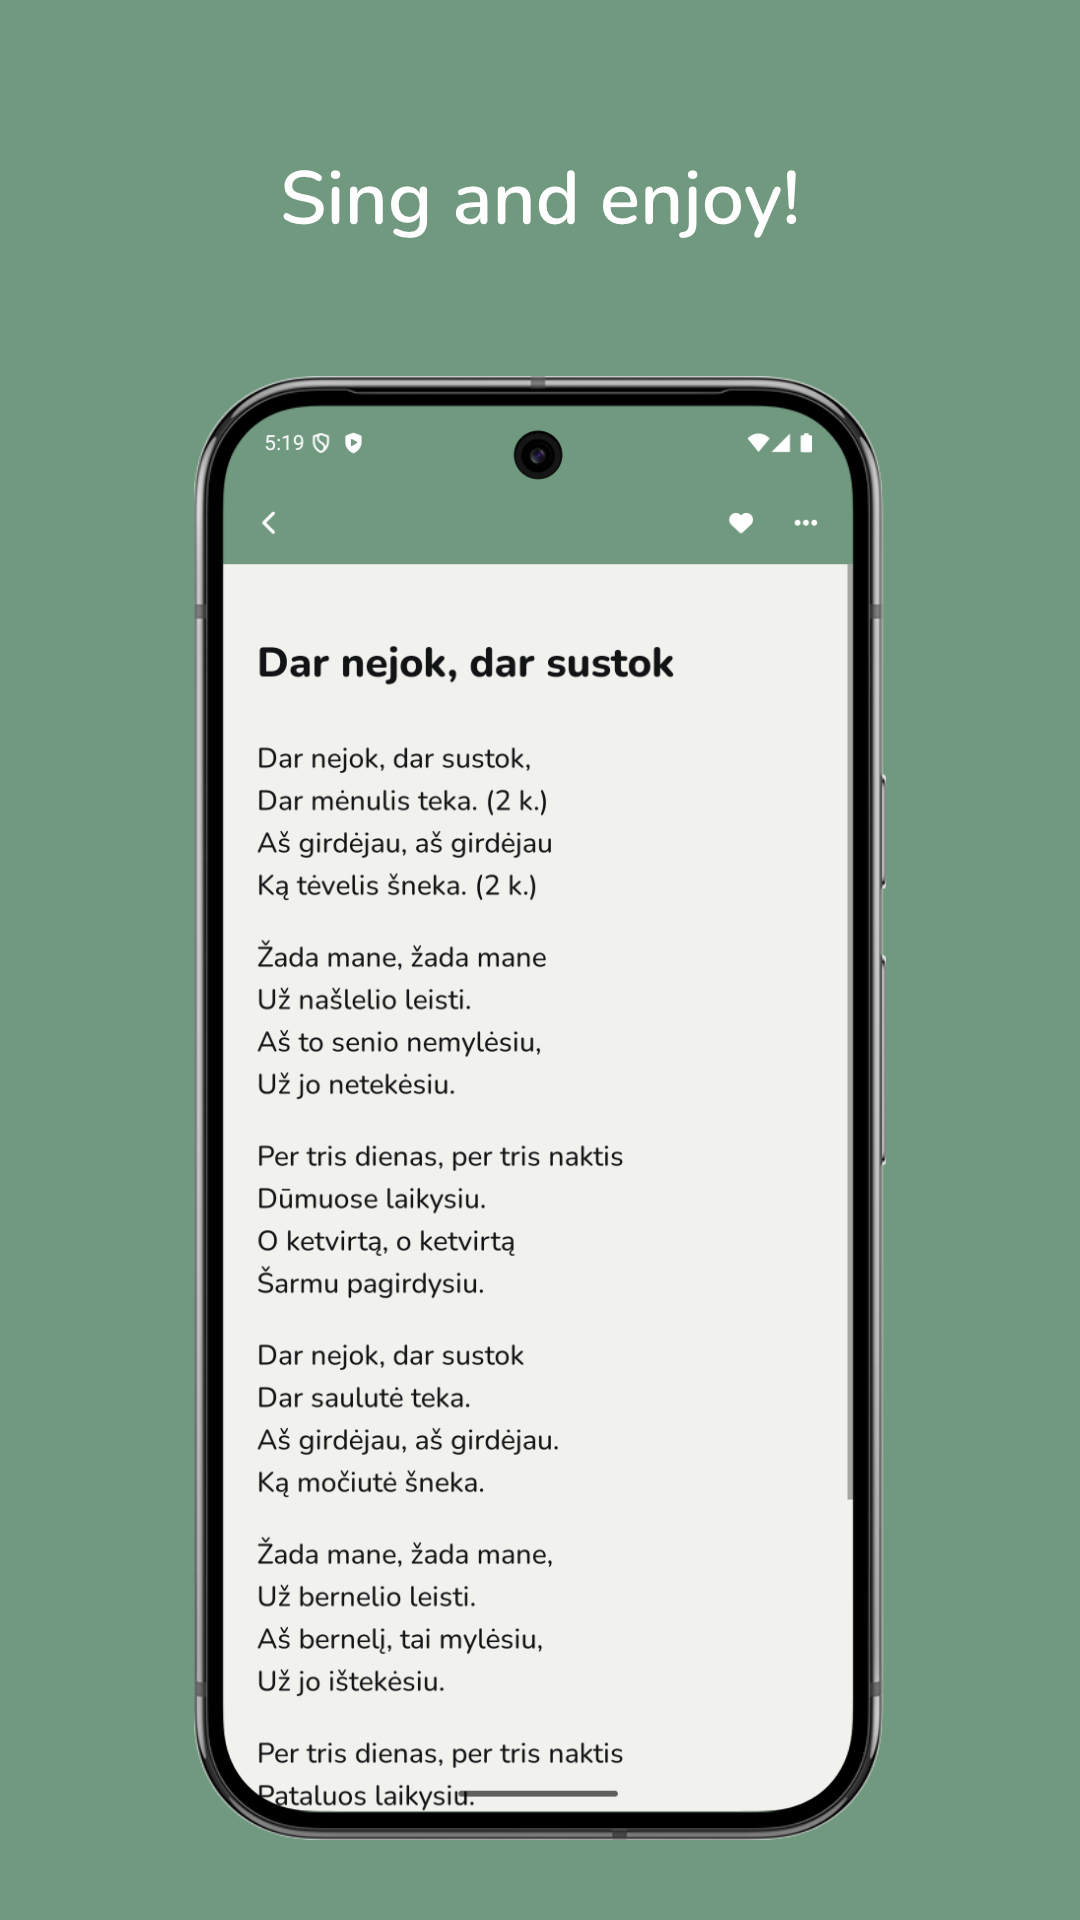
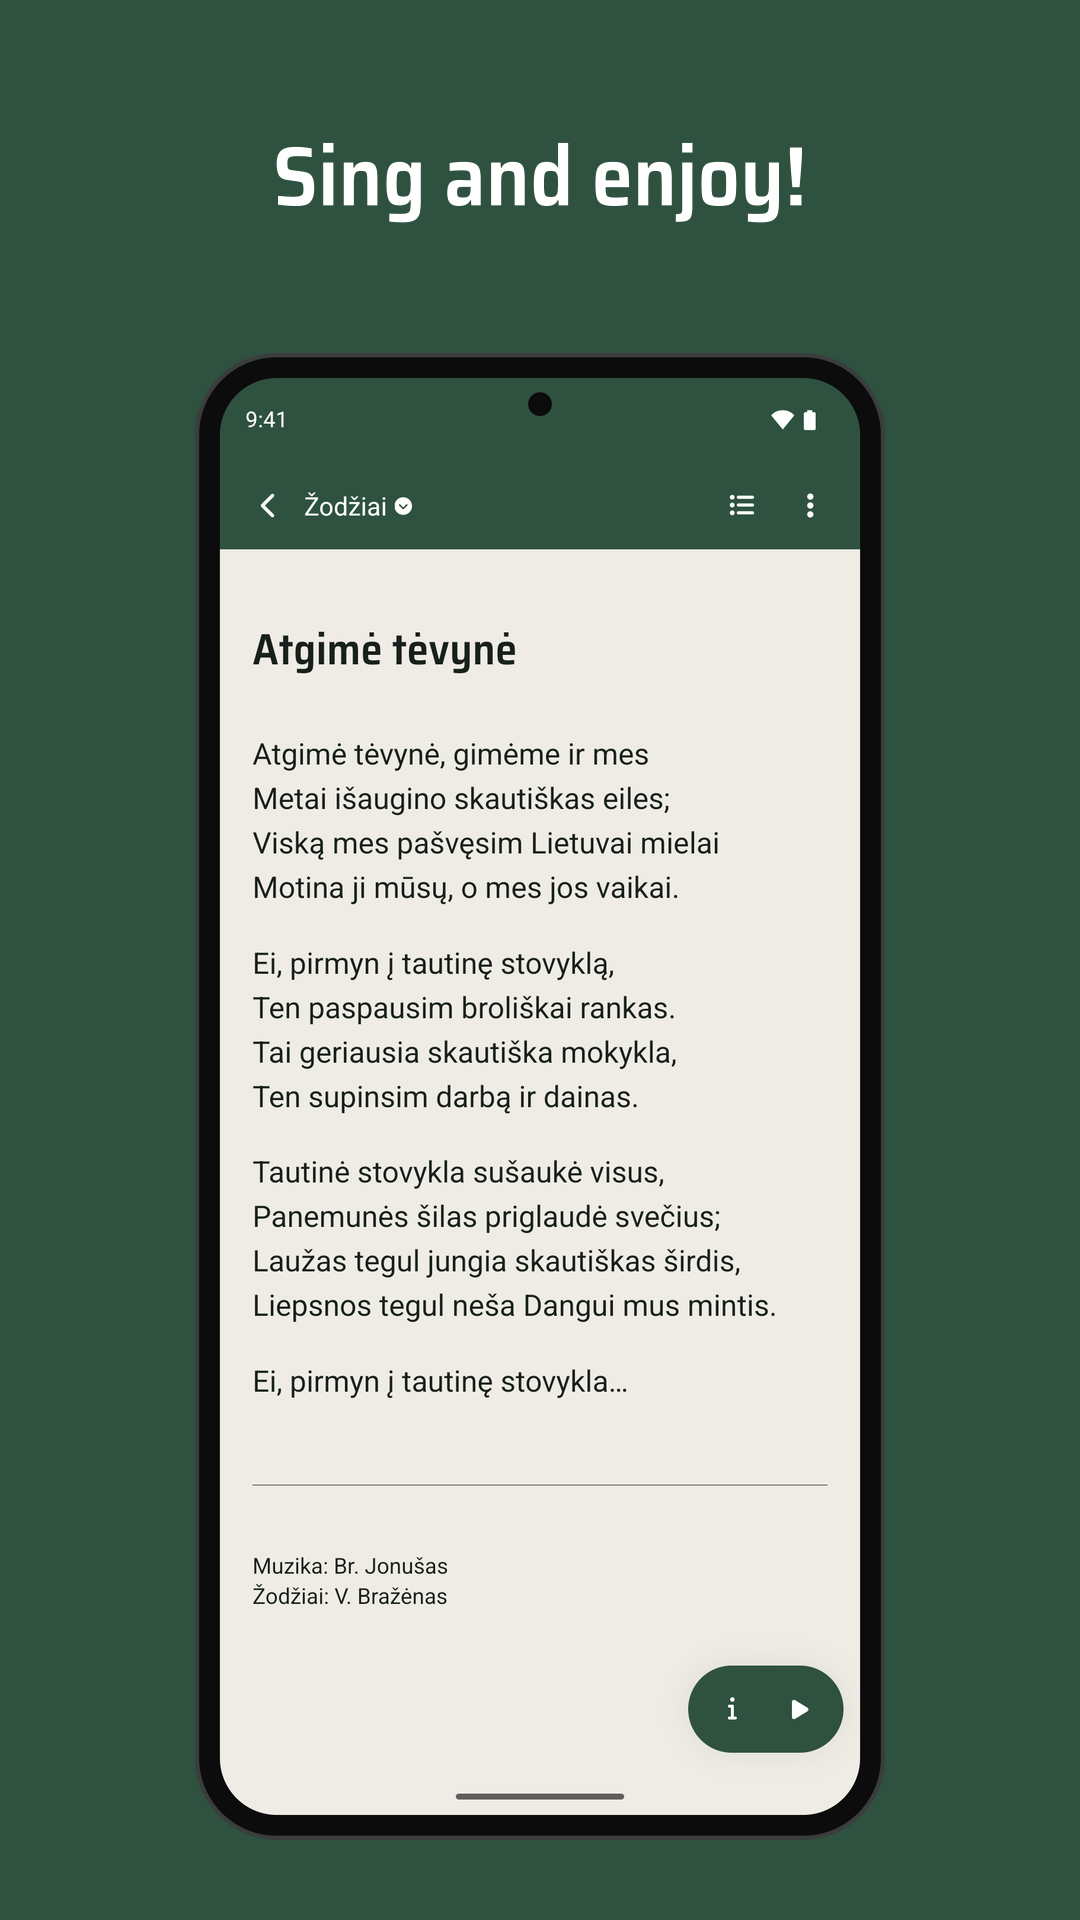
feat: store screenshots composed from captures, in the v3 brand
scripts/store-screenshots: config.json (captions, frames, sizes, layout), compose.ts (sharp, with
the caption drawn from Saira's outlines by opentype.js since libvips can't load a font file on
macOS), capture.sh (clean status bars, deep links, screenshots) and the capture checklist. The 15
store images are retaken on iOS 27 / Android 16 and composed on eglė in Saira Semi Condensed.

Claude-Session: https://claude.ai/code/session_017s8egWMJi8eBEq9RKHtkQk

diff --git a/scripts/store-screenshots/compose.ts b/scripts/store-screenshots/compose.ts
@@ -1,0 +1,164 @@
+/**
+ * Composes the App Store / Play Store screenshots from raw device captures: a caption over the brand colour and
+ * the capture inside a device frame, at each store's size. Everything that changes between refreshes (captions,
+ * frames, sizes, layout) is in config.json; how to take the captures is in README.md.
+ *
+ *   pnpm store-screenshots                  every target in config.json
+ *   pnpm store-screenshots iOS Android      only these targets
+ *
+ * Reads scripts/store-screenshots/captures/<target>/<shot>.png and writes each target's `output` pattern.
+ */
+import { existsSync, readFileSync } from 'node:fs';
+import { join } from 'node:path';
+import { loadSync } from 'opentype.js';
+import sharp from 'sharp';
+
+type Frame =
+  // a device image whose screen is a transparent hole at `screen` ([x, y, width, height] in the image's pixels)
+  | { image: string; screen: [number, number, number, number] }
+  // a plain bezel drawn around a screen of `screen` pixels, for devices without an image (Android)
+  | { screen: [number, number]; bezel: number; radius: number; color: string; rim: string; camera?: number };
+
+type Target = {
+  size: [number, number];
+  frame: string;
+  output: string;
+  // the frame's width on the canvas, and its distance from the bottom edge (negative bleeds off it)
+  frameWidth: number;
+  frameBottom: number;
+  // caption font size and the widest a line may be, in canvas pixels
+  captionSize: number;
+  captionWidth: number;
+};
+
+type Config = {
+  background: string;
+  captionColor: string;
+  font: string;
+  lineHeight: number;
+  frames: Record<string, Frame>;
+  targets: Record<string, Target>;
+  shots: { caption: string }[];
+};
+
+// run from the repo root, like the other scripts
+const root = process.cwd();
+const here = join(root, 'scripts/store-screenshots');
+const config: Config = JSON.parse(readFileSync(join(here, 'config.json'), 'utf8'));
+const font = loadSync(join(root, config.font));
+
+/** the caption as SVG paths (librsvg can't load a font file), wrapped into balanced lines no wider than maxWidth */
+function captionSvg(text: string, size: number, maxWidth: number) {
+  const width = (line: string) => font.getAdvanceWidth(line, size, { kerning: true });
+  const wrap = (limit: number) =>
+    text.split('\n').flatMap((paragraph) =>
+      paragraph.split(' ').reduce<string[]>((lines, word) => {
+        const last = lines.at(-1);
+        if (last !== undefined && width(`${last} ${word}`) <= limit) lines[lines.length - 1] = `${last} ${word}`;
+        else lines.push(word);
+        return lines;
+      }, [])
+    );
+  // greedy wrapping leaves a short last line: shrink the limit while the line count holds
+  const count = wrap(maxWidth).length;
+  let limit = maxWidth;
+  while (limit > size && wrap(limit - size / 4).length === count) limit -= size / 4;
+  const lines = wrap(limit);
+
+  const lineHeight = size * config.lineHeight;
+  const ascent = (font.ascender / font.unitsPerEm) * size;
+  const descent = (-font.descender / font.unitsPerEm) * size;
+  const height = Math.ceil(lineHeight * (lines.length - 1) + ascent + descent);
+  const paths = lines.map((line, i) =>
+    font.getPath(line, (maxWidth - width(line)) / 2, ascent + i * lineHeight, size, { kerning: true }).toPathData(2)
+  );
+  const svg = `<svg xmlns="http://www.w3.org/2000/svg" width="${maxWidth}" height="${height}">
+    <path fill="${config.captionColor}" d="${paths.join(' ')}"/></svg>`;
+  return { svg: Buffer.from(svg), height };
+}
+
+/** the frame with the capture in its screen, as a PNG at the frame's native size */
+async function framed(frame: Frame, capture: string) {
+  if ('image' in frame) {
+    const [x, y, w, h] = frame.screen;
+    const image = sharp(join(root, frame.image));
+    const { width, height } = await image.metadata();
+    const screen = await sharp(capture).resize(w, h, { fit: 'fill' }).toBuffer();
+    return sharp({ create: { width, height, channels: 4, background: '#0000' } })
+      .composite([{ input: screen, left: x, top: y }, { input: join(root, frame.image) }])
+      .png()
+      .toBuffer();
+  }
+  const [w, h] = frame.screen;
+  const { bezel: b, radius: r } = frame;
+  const width = w + 2 * b;
+  const height = h + 2 * b;
+  const screen = await sharp(capture).resize(w, h, { fit: 'fill' }).toBuffer();
+  const camera = frame.camera
+    ? `<circle cx="${width / 2}" cy="${b + frame.camera * 2.2}" r="${frame.camera}" fill="${frame.color}"/>`
+    : '';
+  // the bezel is a rounded rect with a rim, masked so the capture shows through the screen
+  const rim = Math.round(b / 6);
+  const svg = `<svg xmlns="http://www.w3.org/2000/svg" width="${width}" height="${height}">
+    <mask id="screen"><rect width="${width}" height="${height}" fill="#fff"/>
+      <rect x="${b}" y="${b}" width="${w}" height="${h}" rx="${r}" fill="#000"/></mask>
+    <rect x="${rim / 2}" y="${rim / 2}" width="${width - rim}" height="${height - rim}" rx="${r + b - rim / 2}"
+      fill="${frame.color}" stroke="${frame.rim}" stroke-width="${rim}" mask="url(#screen)"/>
+    ${camera}</svg>`;
+  return sharp({ create: { width, height, channels: 4, background: '#0000' } })
+    .composite([{ input: screen, left: b, top: b }, { input: Buffer.from(svg) }])
+    .png()
+    .toBuffer();
+}
+
+async function compose(name: string, target: Target) {
+  const [canvasWidth, canvasHeight] = target.size;
+  for (const [index, shot] of config.shots.entries()) {
+    const capture = join(here, 'captures', name, `${index + 1}.png`);
+    if (!existsSync(capture)) {
+      console.warn(`skipped ${name} ${index + 1}: no capture at ${capture}`);
+      continue;
+    }
+    const device = await sharp(await framed(config.frames[target.frame], capture))
+      .resize({ width: target.frameWidth })
+      .toBuffer();
+    const deviceHeight = (await sharp(device).metadata()).height;
+    const deviceTop = canvasHeight - target.frameBottom - deviceHeight;
+    const caption = captionSvg(shot.caption, target.captionSize, target.captionWidth);
+
+    const output = join(root, target.output.replace('{n}', String(index + 1)));
+    await sharp({ create: { width: canvasWidth, height: canvasHeight, channels: 3, background: config.background } })
+      .composite([
+        {
+          input: caption.svg,
+          left: Math.round((canvasWidth - target.captionWidth) / 2),
+          top: Math.round((deviceTop - caption.height) / 2),
+        },
+        // a frame that bleeds off the bottom is cropped to the canvas
+        {
+          input: await sharp(device)
+            .extract({
+              left: 0,
+              top: 0,
+              width: target.frameWidth,
+              height: Math.min(deviceHeight, canvasHeight - deviceTop),
+            })
+            .toBuffer(),
+          left: Math.round((canvasWidth - target.frameWidth) / 2),
+          top: deviceTop,
+        },
+      ])
+      .png()
+      .toFile(output);
+    console.log(`wrote ${output}`);
+  }
+}
+
+async function main() {
+  const only = process.argv.slice(2);
+  for (const [name, target] of Object.entries(config.targets)) {
+    if (only.length === 0 || only.includes(name)) await compose(name, target);
+  }
+}
+
+main();

diff --git a/scripts/store-screenshots/README.md b/scripts/store-screenshots/README.md
@@ -1,0 +1,48 @@
+# Store screenshots
+
+`assets/images/screenshots/{iOS,iPadOS,Android} {1-5}.png` are composed from raw captures by
+`compose.ts`: a caption in Saira Semi Condensed on eglė, over the capture in a device frame.
+`config.json` holds the captions, the frames (an image with a transparent screen, or a plain drawn
+bezel), and each store target's canvas size, frame and layout.
+
+1. Take the captures below into `captures/<target>/<n>.png` (gitignored).
+2. `pnpm store-screenshots` (or `pnpm store-screenshots iOS` for one target).
+
+To change the words or the screens, edit `shots` in `config.json` and the list below. A new frame is
+an entry in `frames`; the capture's size must match its `screen`.
+
+## Devices
+
+| Target  | Device (capture size)                     | Store size            |
+| ------- | ----------------------------------------- | --------------------- |
+| iOS     | iPhone 16 simulator (1179×2556)           | 1242×2688 (6.5")      |
+| iPadOS  | iPad mini (A17 Pro) simulator (1488×2266) | 2048×2732 (12.9"/13") |
+| Android | Pixel 9a emulator (1080×2424)             | 1080×1920             |
+
+Run a Debug build against Metro. `capture.sh` wraps the device commands:
+
+```bash
+S=scripts/store-screenshots/capture.sh
+$S prep ios <udid>                    # 9:41, full bars and battery
+$S prep android emulator-5554         # demo mode (once per boot)
+$S open ios <udid> 'dainorelis://dainos/rec9WsC1vTljkFQLf'
+$S shot ios <udid> iOS 3              # -> captures/iOS/3.png
+```
+
+## Shots
+
+Start from a fresh install (`xcrun simctl uninstall`/`install`, `adb shell pm clear com.dainorelis.dainorelis`),
+light appearance, app language Lietuvių, theme Automatic. Never start a recording. Before each shot,
+check for Debug-only overlays: a LogBox toast (tap its ×) or Metro's "Refreshing…" banner (wait).
+Open each link from the home screen, so the song's back button has no label.
+
+1. **Library**: the home screen at the top of Visos dainos, right after launch.
+2. **Playlists**: open
+   `dainorelis://p?n=Laužas&s=LfWPkphr2Ka7J8,w8VCo1GWSthWu4,Hvjuje2YfRDz8R,C2I4Tj708Pjntx,6HvvXoUR16TDE4,vASIqN6m0kgQCX,HjN2O3VBBqwJ4r,Ak1k2DIAQbdpOK`
+   (song ids without their `rec` prefix; iOS asks to open it first) and tap Pridėti grojaraštį once. Home now shows Laužas; scroll to the top.
+3. **Song**: Atgimė tėvynė, `dainorelis://dainos/rec9WsC1vTljkFQLf`.
+4. **Sheet music**: Buvo dūda Vilniuj's score,
+   `dainorelis://dainos/receJQKQusXDipRUE?v=recwFVAEl2LEMwsy3`. Wait for the PDF to render.
+5. **Language and dark mode**: Settings (the ⓘ button) → Kalba → English, then dark appearance
+   (`xcrun simctl ui <udid> appearance dark`, `adb shell cmd uimode night yes`), relaunch the app
+   and open shot 3's link. Afterwards set them back.

diff --git a/AGENTS.md b/AGENTS.md
@@ -125,6 +125,18 @@ pnpm generate-metadata          # Generate AI descriptions/translations for all 
 pnpm generate-metadata:test     # Test on first 5 songs only
 ```
 
+### Store screenshots
+
+```bash
+pnpm store-screenshots          # Compose assets/images/screenshots/{iOS,iPadOS,Android} {1-5}.png
+```
+
+`scripts/store-screenshots/compose.ts` puts raw device captures (gitignored, in
+`scripts/store-screenshots/captures/<target>/<n>.png`) into device frames under a caption, at each store's
+size. Captions, frames, sizes and layout are in `config.json`; the devices, deep links and steps for
+each shot are in that folder's `README.md`, and `capture.sh` wraps the simctl/adb commands. After a UI
+change, retake the captures and rerun the script.
+
 ## Architecture
 
 ### Core Technology Stack
